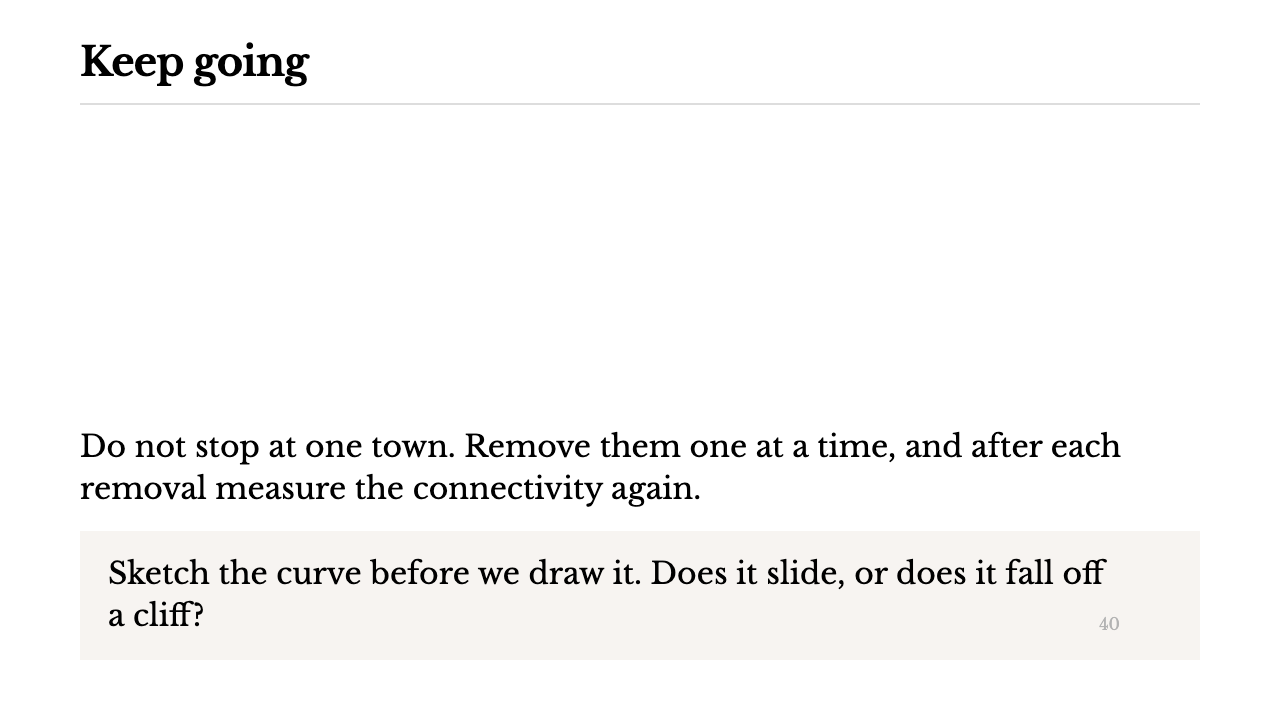
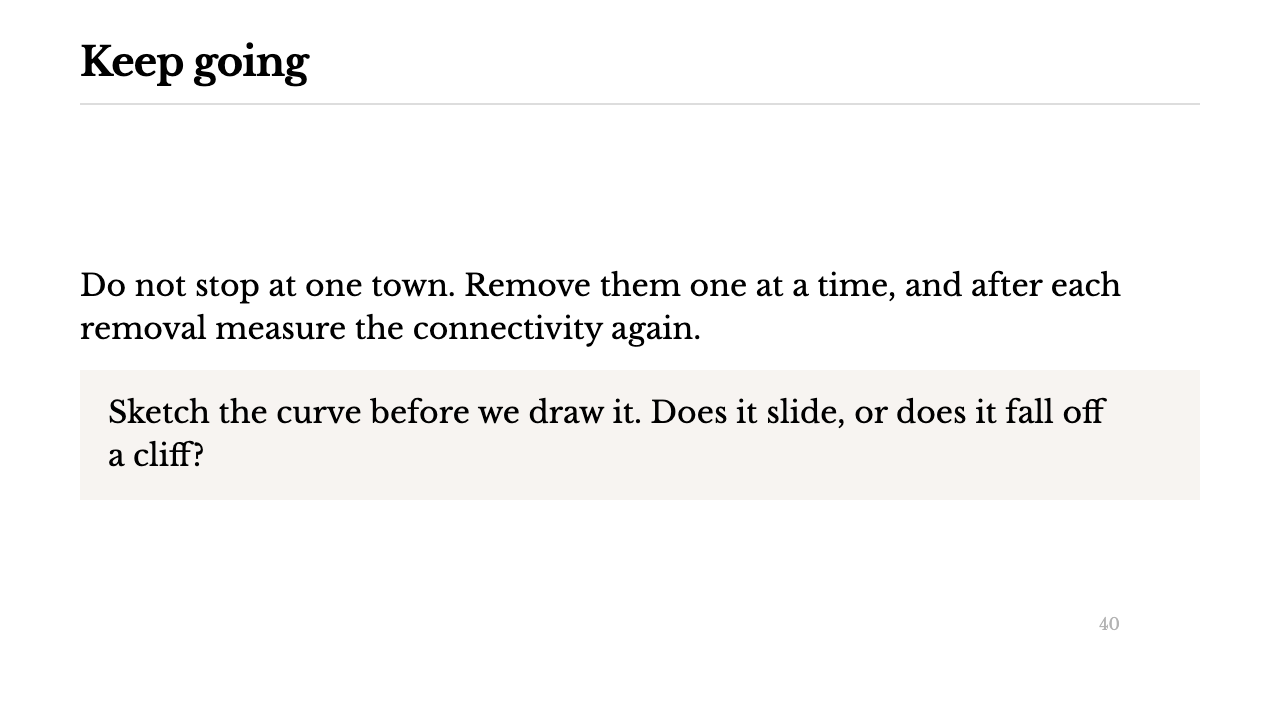
m03: fix the mid-slide CSS specificity collision
section.mid > :last-child { margin-bottom: auto } and
section .formula:last-child { margin-bottom: 0 } have the same specificity
(0,2,1), and the formula rule comes later, so it won on every mid slide ending
in a formula panel -- most of the question slides. With the bottom auto margin
gone the top one pushed the body to the floor: ~360px of dead band under the
rule and the page number rendering inside the beige panel. Two reviewers found
it from different slides.

The override now out-specifies the formula rule rather than repeating it.
Lecturer confirmed this theme copy is self-contained to m03.

Changed region(s): [[0.0625, 0.55, 0.875, 0.7028], [0.0625, 0.3667, 0.875, 0.4889], [0.0938, 0.7639, 0.875, 0.8861]]

diff --git a/docs/slide/new/m03/network-science.css b/docs/slide/new/m03/network-science.css
@@ -137,6 +137,17 @@ section.mid { justify-content: flex-start; }
 section.mid > h2 + hr { margin-bottom: auto; }
 section.mid > :last-child { margin-bottom: auto; }
 
+/* ...but `section .formula:last-child { margin-bottom: 0 }` further down has the
+   SAME specificity (0,2,1) and comes later, so it won on every `mid` slide whose
+   last block is a formula panel — which is most of the question slides. With the
+   bottom auto margin gone, the top one pushed the whole body to the floor: 360px
+   of dead band under the rule, and the page number rendering inside the beige
+   panel. Two independent reviewers reported it from different slides.
+   The override has to out-specify that rule, not merely repeat it. */
+section.mid > .formula:last-child,
+section.mid > div:last-child,
+section.mid > p:last-child { margin-bottom: auto; }
+
 /* ---------- body ---------- */
 
 section p {
